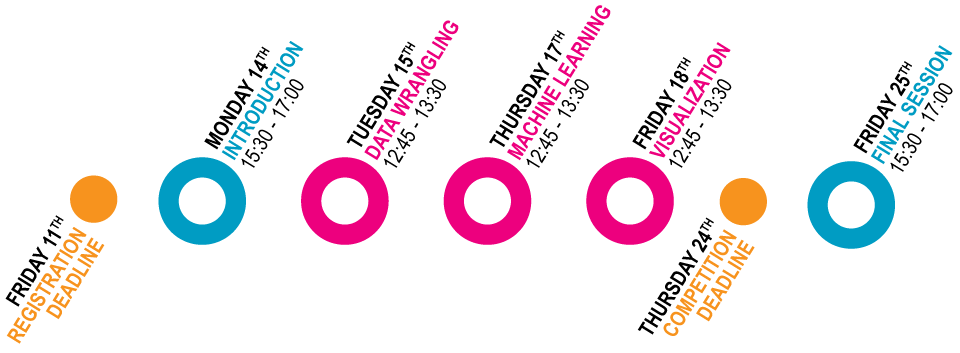
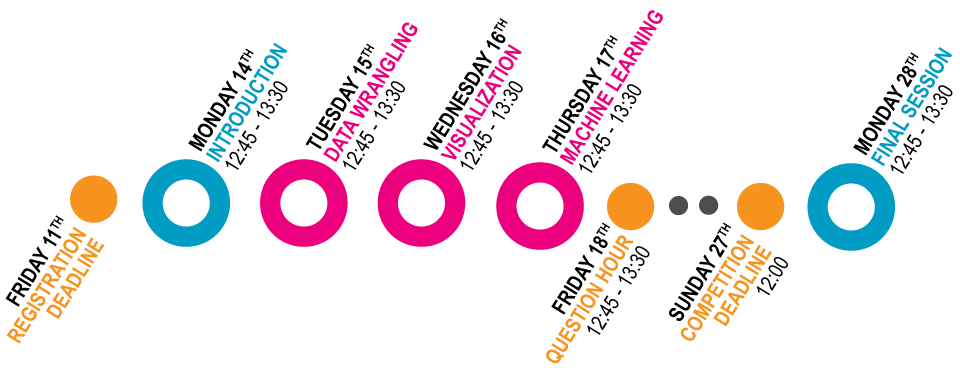
update data science week schedule

Changed region(s): [[0.0, 0.0312, 1.0, 0.966]]

diff --git a/collaborate.html b/collaborate.html
@@ -23,7 +23,8 @@ bodyClass: page-list
         <a href="{% link team.html %}" class="button">BDSi Team</a>
 
         <h3>Collaboration</h3>
-        <p>BDSi will also collaborate on selected projects. <a href="{% link _news/call-for-proposals-2021.md %}">BDSi Data Science grants</a> are provided multiple times per year to support projects with a high impact for data science at BMS. </p>
+        <p>BDSi will also collaborate on selected projects. <a href="{% link _news/call-for-proposals-2021.md %}">BDSi Data Science grants</a> are provided several times per year to support projects with a high impact for data science at BMS. </p>
+        <p>Keep an eye on the website and newsletter for calls for the next set of grants.</p>
         <a href="{% link _news/call-for-proposals-2021.md %}" class="button">BDSi Data Science Grant</a>
     </div>
 </div>

diff --git a/_events/workshops/2022-02_data-science-week.md b/_events/workshops/2022-02_data-science-week.md
@@ -34,8 +34,8 @@ frontpage: true
 - [Schedule](#schedule)
   - [Kickoff](#kickoff)
   - [Workshop Data Wrangling](#workshop-data-wrangling)
-  - [Workshop Machine Learning](#workshop-machine-learning)
   - [Workshop Data Visualization](#workshop-data-visualization)
+  - [Workshop Machine Learning](#workshop-machine-learning)
   - [Submission Deadline](#submission-deadline)
   - [Closing Session](#closing-session)
 
@@ -120,7 +120,7 @@ Scheduling of the individual workshops and seminars will be updated in the comin
 
 ### Kickoff
 
-##### February 14th, 15:30 – 17:00
+##### February 14th, 12:45 – 13:30
 
 After a quick introduction about BDSi, we will introduce the topic, and give a description of the dataset, and the problem you will solve.
 We will also explain how to reach the coaches for help, and give a brief overview of the schedule.
@@ -133,6 +133,14 @@ A 45 minute guided introduction to data wrangling in _R_, using the 'tidy' data 
 
 This workshop is also open for those who do not want to participate in the Data Science Week. You can find more information about the workshop [here][ws-tdw], or sign up directly [here][sign-up-tdw].
 
+### Workshop Data Visualization
+
+##### February 16th, 12:45 – 13:30
+
+A 45 minute guided overview of data visualization using the grammar of graphics. [Karel Kroeze](/team/#k-a-kroeze) will explain the principles of creating and layering visualizations with _ggplot_ in _R_, and give a quick introduction to interactive visualizations with plotly, shiny and beyond.
+
+This workshop is also open for those who do not want to participate in the Data Science Week. You can find more information about the workshop [here][ws-viz], or sign up directly [here][sign-up-viz].
+
 ### Workshop Machine Learning
 
 ##### February 17th, 12:45 - 13:30
@@ -141,23 +149,15 @@ A 45 minute guided overview of basic machine learning techniques. [Anna Machens]
 
 This workshop is also open for those who do not want to participate in the Data Science Week. You can find more information about the workshop [here][ws-ml], or sign up directly [here][sign-up-ml].
 
-### Workshop Data Visualization
-
-##### February 18th, 12:45 – 13:30
-
-A 45 minute guided overview of data visualization using the grammar of graphics. [Karel Kroeze](/team/#k-a-kroeze) will explain the principles of creating and layering visualizations with _ggplot_ in _R_, and give a quick introduction to interactive visualizations with plotly, shiny and beyond.
-
-This workshop is also open for those who do not want to participate in the Data Science Week. You can find more information about the workshop [here][ws-viz], or sign up directly [here][sign-up-viz].
-
 ### Submission Deadline
 
-##### February 26th, 23:59
+##### February 27th, 12:00
 
 After spending all weekend with your team fine-tuning your solutions, you will have to submit them before midnight on Sunday. That gives us a bit of time to check your models and pick a winner. In the mean time, you can practice your victory speech - or suddenly have a brilliant idea that it's too late to implement before submission.
 
 ### Closing Session
 
-##### February 28th, 15:30 – 17:00
+##### February 28th, 12:45 – 13:30
 
 The teams that created the best and most creative solutions will give a short presentation about their approach, and there will be time to ask questions to the winning teams as well as BDSi staff and coaches.
 

diff --git a/_events/workshops/2022-02-data-visualization.md b/_events/workshops/2022-02-data-visualization.md
@@ -9,7 +9,7 @@ tags:
     - Beginner
     - R
     - Visualization
-startDate: 2022-02-18
+startDate: 2022-02-16
 time: "12:45 - 13:30"
 image: /assets/images/workshops/data-viz.png
 imageBackground: "#FFBE2E"

diff --git a/_events/workshops/2022-02-machine-learning.md b/_events/workshops/2022-02-machine-learning.md
@@ -12,7 +12,6 @@ tags:
 image: /assets/images/workshops/machine-learning.jpg
 imageNarrow: true
 imageBackground: white
-startDate: "Date: To be announced"
 startDate: 2022-02-17
 time: "12:45 - 13:30"
 ---
